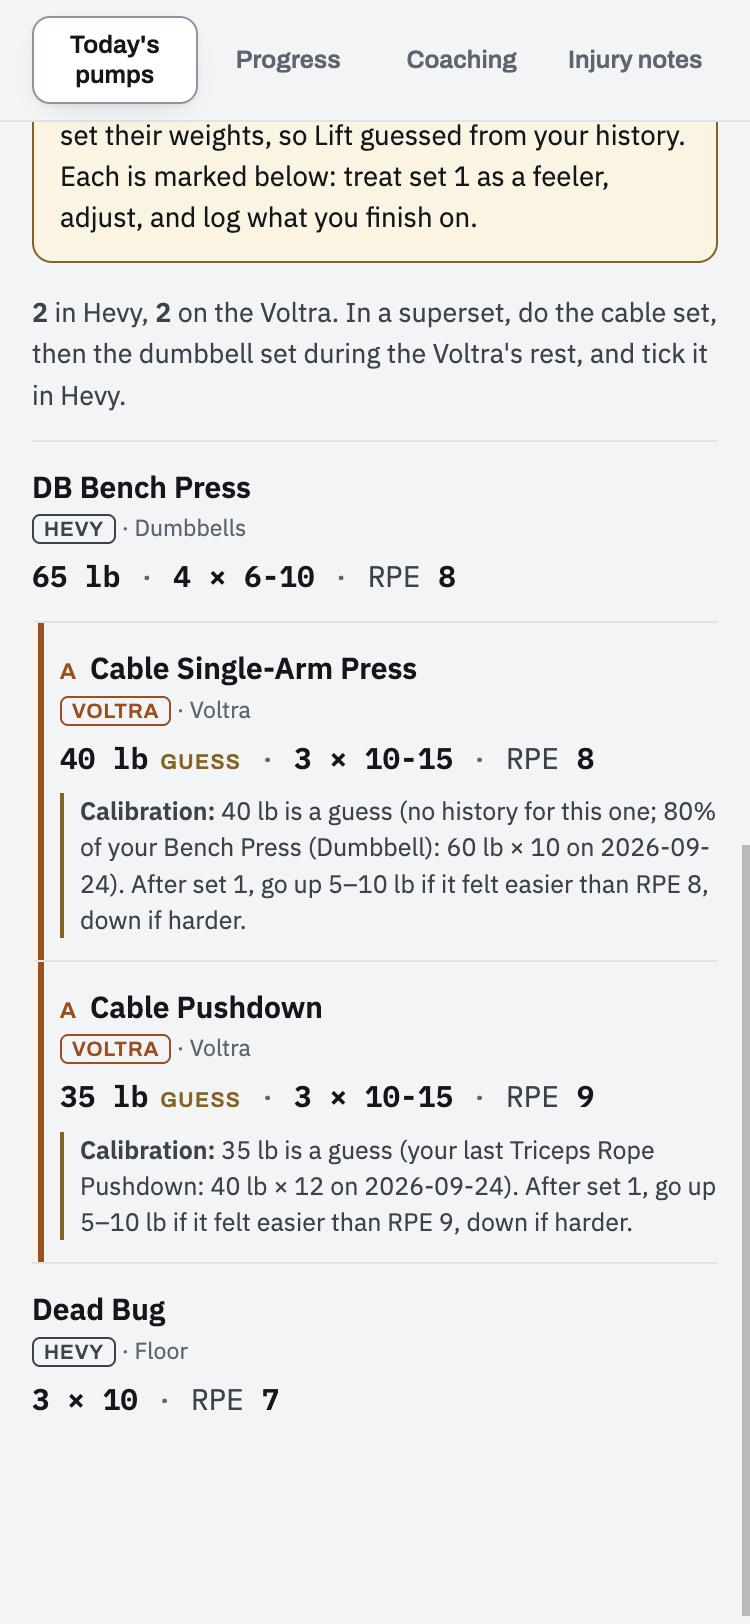
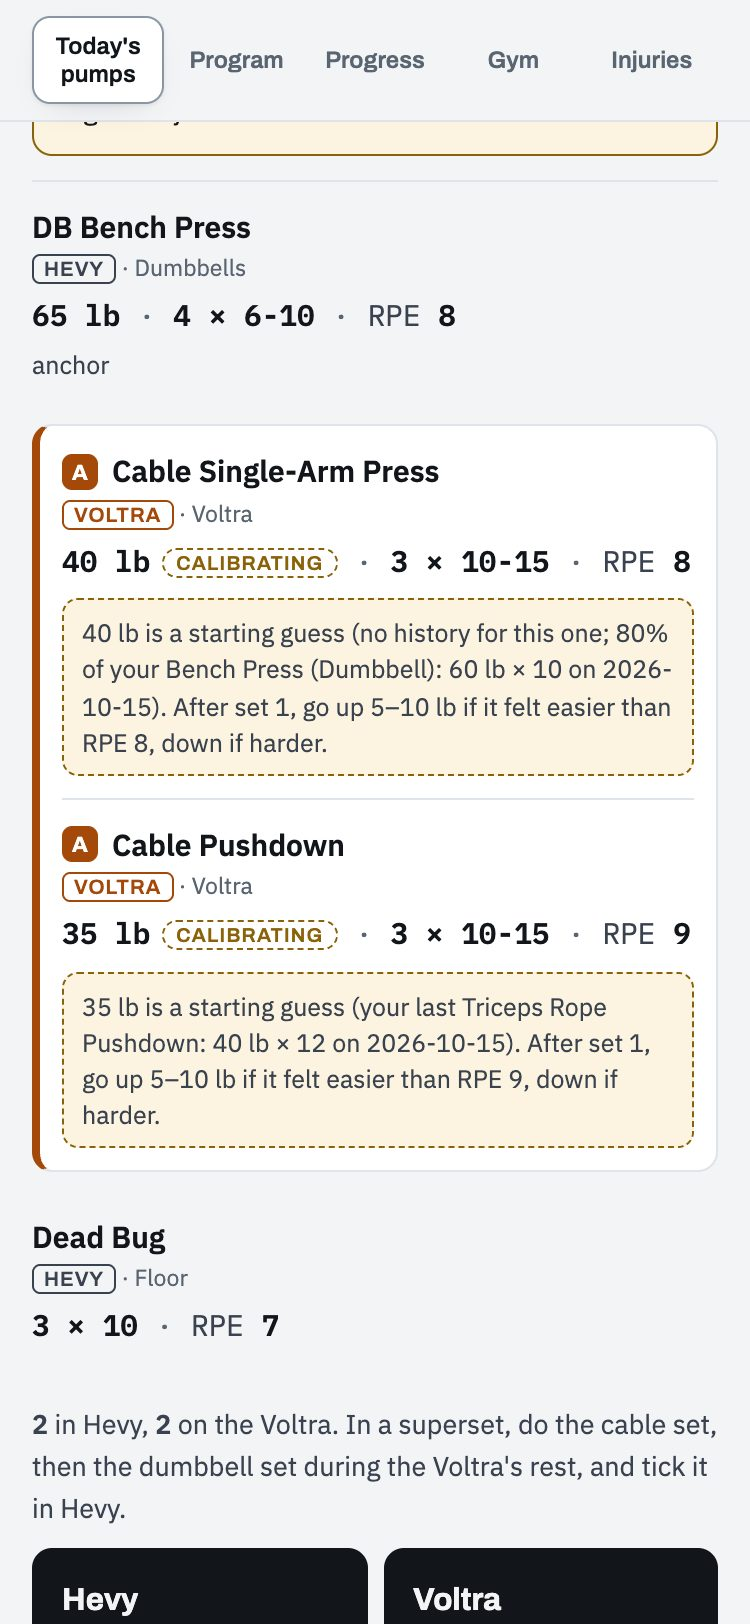
Docs and demo for round 3: README, ADR 0007, fresh screenshots (#29)
- README: the five tabs, the Gym tab and trips, questions from the logs, the
  new lib modules, and four new screenshots (Today, session, Program, Gym).
- ADR 0007: the coach writes the full days; the app builds the rest by rule.
- scripts/screenshots.mjs (`npm run screenshots`): retakes the README images from
  the running demo with headless Chrome over the DevTools protocol, no new
  packages.
- Demo: one exercise out of rotation, so Excluded isn't empty.

Changed region(s): [[0.0307, 0.0, 1.0, 1.0]]

diff --git a/README.md b/README.md
@@ -10,12 +10,14 @@ things: catching that drift early, and making real progress visible enough to ke
 going.
 
 <p>
-  <img src="docs/screenshots/today.jpg" width="260" alt="Today: this week's training days and the day's session">
-  <img src="docs/screenshots/session.jpg" width="260" alt="The session, with Voltra loads guessed from history and marked as calibration">
-  <img src="docs/screenshots/progress.jpg" width="260" alt="Strength index across four anchor lifts">
+  <img src="docs/screenshots/today.jpg" width="200" alt="Today: the week strip, a trip in progress, and the coach's pick">
+  <img src="docs/screenshots/session.jpg" width="200" alt="The session: a superset group and Voltra loads guessed from history as calibration">
+  <img src="docs/screenshots/program.jpg" width="200" alt="Program: the rotation with each day's last date, where you are, and the last session">
+  <img src="docs/screenshots/gym.jpg" width="200" alt="Gym: a planned trip with a session per day, and the exercises in rotation">
 </p>
 
-<sub>Screenshots from the demo (<code>npm run demo</code>), which runs on made-up data.</sub>
+<sub>Screenshots from the demo (<code>npm run demo</code>), which runs on made-up data;
+<code>npm run screenshots</code> retakes them.</sub>
 
 ## How it works
 
@@ -27,7 +29,7 @@ flowchart LR
   end
   subgraph Vercel["Vercel (Hobby, $0)"]
     C[Daily cron<br/>/api/cron/*]
-    A[Next.js app<br/>Today · Streak · Body]
+    A[Next.js app<br/>Today · Program · Progress · Gym · Injuries]
   end
   R[Scheduled Claude routine<br/>writes the morning brief]
   D[(Private data repo<br/>program · logs · briefs)]
@@ -50,14 +52,19 @@ flowchart LR
    makes the later runs retries. The brief has a prose part and a JSON part that follows
    [a documented schema](docs/brief-schema.md).
 3. **At the gym.** The app shows the coach's pick and lets you swap variants (as
-   planned, beast mode, quick, traveling, can't train) or pick any other program day,
-   built from the program with weights from your history. **Start** writes the
+   planned, beast mode, quick, traveling, can't train) or pick any other program day:
+   the coach's own version for full days, built by rule from the program for the rest
+   ([ADR 0007](docs/adr/0007-coach-writes-full-days-app-builds-the-rest.md)). **Start** writes the
    routine into Hevy and the session onto the Voltra, with the weights, so both are
    waiting. **End** pulls the finished work back in.
 4. **After.** A note says what the logs can't: a session split across apps, work
-   that never got logged. Injuries are tracked as cards with updates until they
-   resolve. The next morning's brief reads both before it reads the data.
-5. **Always.** The week strip counts distinct training days against a weekly
+   that never got logged, and the app asks when the logs look ambiguous. Injuries are
+   tracked as cards with updates until they resolve. The next morning's brief reads
+   both before it reads the data.
+5. **Around it.** The Gym tab holds the home equipment (the only weights the coach may
+   prescribe) and which exercises are in rotation. A trip sets the dates away and the
+   hotel's gym, proposes a session per day, and converts each one for that gym.
+6. **Always.** The week strip counts distinct training days against a weekly
    target, and a Strength Index tracks estimated 1RM across four anchor lifts.
 
 ## Design decisions
@@ -123,9 +130,15 @@ web/                    Next.js app (App Router), API routes, crons
   lib/store.ts          the one door to the data: GitHub, or a local folder
   lib/metrics.ts        streak and strength-index computation
   lib/loadGuess.ts      calibration loads when the brief leaves one out
+  lib/weights.ts        the loads that exist in the gym; guesses round down to one
+  lib/programDay.ts     program days and their rule-built variants (incl. hotel conversion)
+  lib/recent.ts         last session, last date per day, questions from the logs
+  lib/gym.ts            equipment and exercise-rotation edits that keep the YAML's comments
+  lib/trips.ts          trips: proposed sessions per day, overrides, home early
   lib/markdown.ts       brief renderer (the trust boundary for model output)
   test/                 unit and route tests; fixtures/data is a synthetic data repo
   scripts/demo-data.mjs builds the demo's made-up data
+  scripts/screenshots.mjs retakes the README screenshots from the demo
 scripts/                Python: rebuilds the program's routines in Hevy (run by hand)
 docs/adr/               architecture decision records
 docs/                   brief schema, architecture review, screenshots

diff --git a/docs/adr/0007-coach-writes-full-days-app-builds-the-rest.md b/docs/adr/0007-coach-writes-full-days-app-builds-the-rest.md
@@ -1,0 +1,26 @@
+# 0007. The coach writes the full days; the app builds the rest by rule
+
+**Status:** Accepted
+
+## Context
+The brief recommends one workout day, but the athlete sometimes knows better (a strong
+pull day, a sore shoulder, a hotel gym) and needs every variant of whatever day he
+picks. Three ways to get them: the morning routine writes every day; the app asks a
+model live when he switches; or the app builds them by rule from the program.
+
+## Decision
+A mix, chosen by Eli (2026-10-18). The routine writes today's pick and an `alternates`
+block for the other **full** days, with the same rules as today: injury cards,
+history, ratings, real weights. The app builds the **short** days, and any day the
+brief left out, by rule (`web/lib/programDay.ts`): As planned is the program; Beast
+mode is +1 set on anchors plus a short day's opener; Quick is the first block; Traveling
+is converted with the travel substitution map for the trip's hotel gym. Rule-built days
+are labelled "from the program" and carry a warning that the coach's adjustments
+aren't in them.
+
+## Consequences
+- Picking a full day still gets coaching; no model call or API key in the app, and
+  switching is instant.
+- The brief's JSON is roughly four times longer, and it's fixed at 5am.
+- Rule-built days follow the Gym tab immediately (inactive exercises, missing
+  stations); coach-written ones follow it from the next brief.

diff --git a/docs/adr/README.md b/docs/adr/README.md
@@ -11,3 +11,4 @@ decided, and what it costs. A superseded decision gets a new record, not an edit
 | [0004](0004-storage-behind-one-interface.md) | All data access through one store; a folder store for tests and the demo | Accepted |
 | [0005](0005-python-only-for-program-sync.md) | TypeScript for the app; Python only for the manual Hevy program sync | Accepted |
 | [0006](0006-guessed-loads-are-calibration.md) | A missing Voltra load is estimated from history and shown as calibration | Accepted |
+| [0007](0007-coach-writes-full-days-app-builds-the-rest.md) | The coach writes the full days; the app builds the rest by rule | Accepted |
